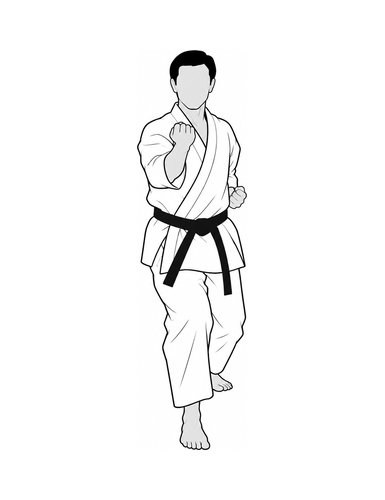
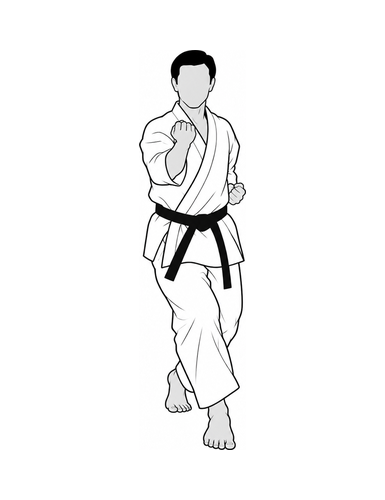
fix: hiean yondan corrections [done]

Changed region(s): [[0.3429, 0.12, 0.6545, 0.9]]

diff --git a/app/data/heian-yondan.ts b/app/data/heian-yondan.ts
@@ -53,7 +53,7 @@ export const HEIAN_YONDAN: Kata = {
       ],
       index: "2",
       orientation: Orientation.E,
-      note: "rotate 180 degrees right by transferring your weight to the left leg",
+      note: "rotate 180 degrees right by transferring your weight to the left leg. Foot stay where they are",
       isSlow: true,
     },
     {
@@ -504,6 +504,7 @@ export const HEIAN_YONDAN: Kata = {
         {
           name: "morote kubi-osae",
           type: Type.KAMAE,
+          target: Target.JODAN
         },
       ],
       index: "19",
